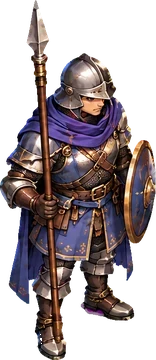
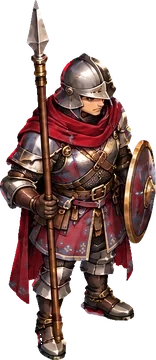
槍兵の青紫を赤に（敵は赤で統一）：立ち・歩き・一騎打ちの4枚
Claude-Session: https://claude.ai/code/session_01U4ZkdGqhhSzJhkDjpnfh2X

diff --git a/terrain/main.js b/terrain/main.js
@@ -1,9 +1,9 @@
 // 領地の地形テスト：地形は three.js（正射影・傾き固定）、小物は切り抜き板、区画はコードのデータ。
 // 座標の約束：基準画像（①）の画素座標 (sx, sy) を使う。地面 (x, z) は x=sx、z=(sy-SY0)/sinE。
 import * as THREE from './vendor/three.module.min.js';
-import * as GM from './game.js?v=1793233727';
-import { createUI } from './ui.js?v=1793233727';
-import { createMorning } from './morning.js?v=1793233727';
+import * as GM from './game.js?v=1793234032';
+import { createUI } from './ui.js?v=1793234032';
+import { createMorning } from './morning.js?v=1793234032';
 
 const layout = await (await fetch('data/layout.json')).json();
 const REF_W = layout.world.w, REF_H = layout.world.h, AREA0_W = 941; // 世界の大きさ（基準画像の画素）

diff --git a/terrain/index.html b/terrain/index.html
@@ -13,5 +13,5 @@ html,body{margin:0;height:100%;background:#0d1a10;overflow:hidden;touch-action:n
 <img id="bg" src="assets/backdrop.jpg" alt="">
 <canvas id="gl"></canvas>
 <div id="hud" style="display:none"></div><div id="st"></div>
-<script type="module" src="main.js?v=1793233727"></script>
+<script type="module" src="main.js?v=1793234032"></script>
 </body></html>
